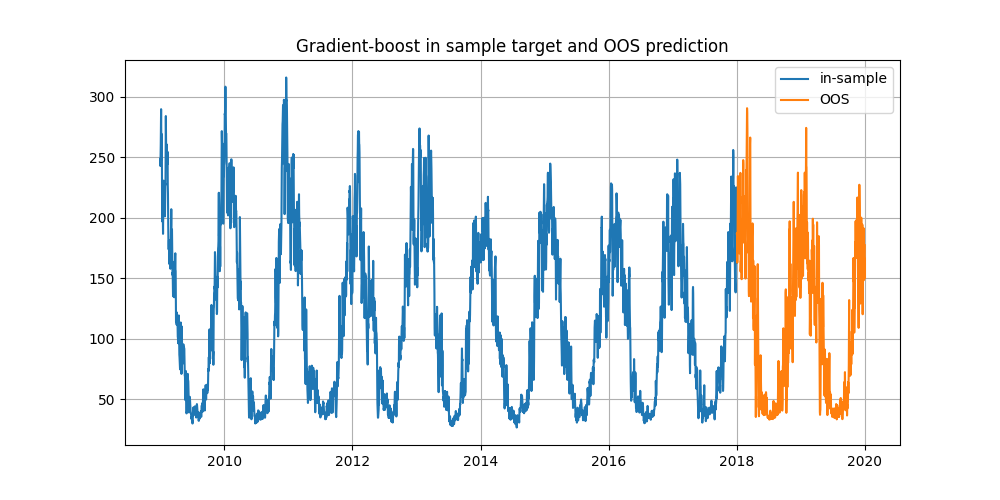
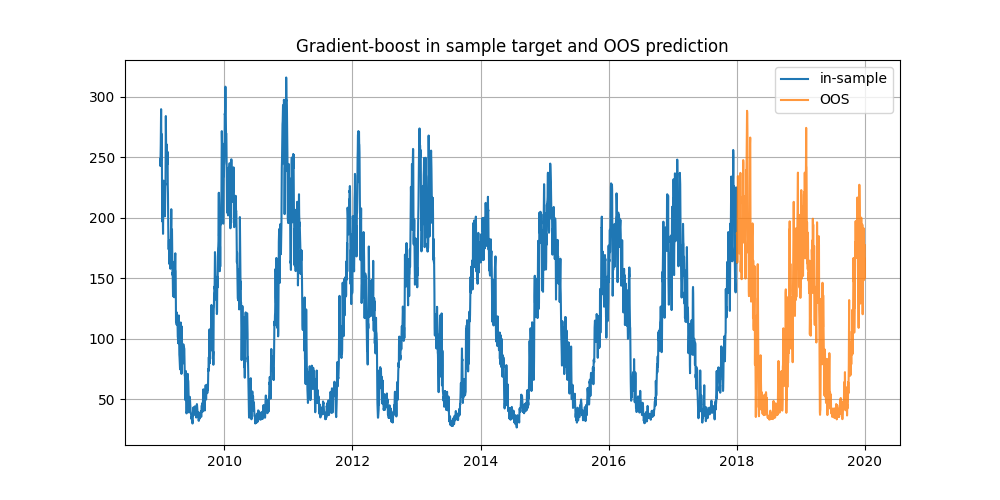
correct lin pred and update gb

Changed region(s): [[0.713, 0.27, 0.868, 0.84], [0.775, 0.18, 0.806, 0.21]]

diff --git a/data_exploration.py b/data_exploration.py
@@ -107,26 +107,26 @@ train = (
 
 lin = LinearRegression(
     fit_intercept=True,
-    copy_X=False
+    copy_X=True
     )
 
 
-# feature engineer : log K temp
-log_k_temp_features = []
-for c in temp_features:
-    train = train.with_columns(np.log((pl.col(c) + TEMP_C_TO_K) / TEMP_C_TO_K))
-    log_k_temp_features.append(c+"_logk")
+# # feature engineer : log K temp
+# log_k_temp_features = []
+# for c in temp_features:
+#     train = train.with_columns(np.log((pl.col(c) + TEMP_C_TO_K) / TEMP_C_TO_K))
+#     log_k_temp_features.append(c+"_logk")
 
 y = train.select(TARGET_COL).to_numpy().T[0]
 X = train.select(pl.exclude([TARGET_COL, DATE_COL])).to_numpy()
-x_mean = np.mean(X, axis=0)
+x_mean = np.mean(X, axis=0).copy()
 
 print(x_mean.shape)
 print(X.shape)
 
 lin.fit(X, y)
 
-y_hat = lin.predict(X+x_mean)
+y_hat = lin.predict(X)
 
 print(norm2(y, y_hat))
 dates = [dt.date.fromisoformat(d) for d in train.select('date').to_numpy().T[0]]
@@ -182,7 +182,7 @@ plt.savefig(IMG_FOLDER / 'oos_var_diff.png')
 
 # %% 
 
-predicted_demand = lin.predict(X_test - x_mean)
+predicted_demand = lin.predict(X_test)
 
 fig, ax = plt.subplots(figsize=(10, 5))
 
@@ -194,9 +194,17 @@ plt.tight_layout()
 
 fig, ax = plt.subplots(figsize=(10, 5))
 
-ax.plot(dates, y, label='IS')
-ax.plot(dates_test, predicted_demand, c='orange', label='OOS')
+ax.plot(dates, y, label='IS', alpha=1.)
+# ax.plot(dates, y_hat, label='IS-pred', alpha=.4)
+ax.plot(dates_test, predicted_demand, c='orange', label='OOS-pred', alpha=.8)
+
+ax.grid()
+ax.legend()
+
+ax.set_title("Linear regression OOS prediction after training data")
 
 fig.tight_layout()
+
+fig.savefig(IMG_FOLDER / 'lin_oos.png')
 
 # %%

diff --git a/gb.py b/gb.py
@@ -85,7 +85,7 @@ y_hat_test = model.predict(X_test)
 fig, ax = plt.subplots(figsize=(10, 5))
 
 ax.plot(dates, y, label='in-sample')
-ax.plot(dates_test, y_hat_test, label='OOS')
+ax.plot(dates_test, y_hat_test, label='OOS', alpha=.8)
 
 ax.legend()
 ax.grid()
@@ -93,3 +93,4 @@ ax.grid()
 ax.set_title("Gradient-boost in sample target and OOS prediction")
 
 fig.savefig(IMG_FOLDER / 'gb_oos_prediction.png')
+# %%

diff --git a/README.md b/README.md
@@ -5,7 +5,7 @@ with a daily frequency.
 
 In-sample target `demand` :
 
-<img src="img/train_demand.png" width="500px" />
+<img src="img/train_demand.png" width="400px" />
 
 The out-of-sample distribution 
 which contains features for exactly a whole year,
@@ -13,7 +13,7 @@ seemingly has a different distribution than the in-sample
 empirical distribution, for instance for order 2 moments,
 many have large discrepancies between in/out sample. 
 
-<img src="img/oos_var_diff.png" width="500px" />
+<img src="img/oos_var_diff.png" width="400px" />
 
 
 ## Metrics 
@@ -23,8 +23,12 @@ many have large discrepancies between in/out sample.
 - 5-fold cross-validation 
 
 
-<img src="img/linear_prediction.png" width="500px" />
+<img src="img/linear_prediction.png" width="400px" />
 
+
+The predicted demand is negative on many occurences :
+
+<img src="img/lin_oos.png" width="400px" />
 
 ## Gradient Boost Regressor prediction
 
@@ -32,9 +36,9 @@ many have large discrepancies between in/out sample.
 - Feature importance analysis
 
 
-<img src="img/gb_in_sample.png" width="500px" />
+<img src="img/gb_in_sample.png" width="400px" />
 
-<img src="img/gb_oos_prediction.png" width="500px" />
+<img src="img/gb_oos_prediction.png" width="400px" />
 
 
 ## Gaussian Process model
